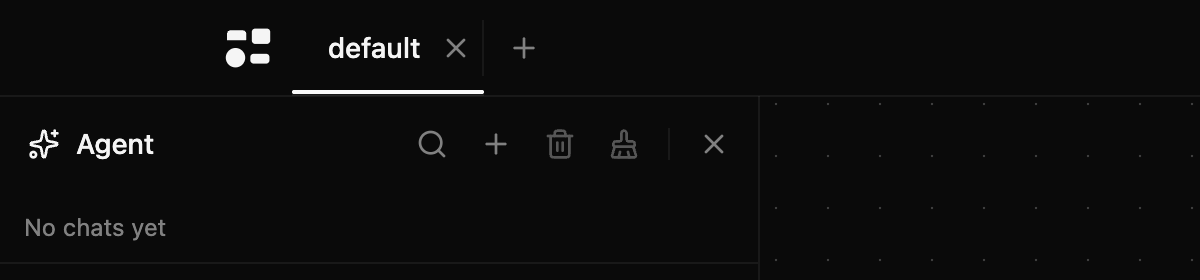
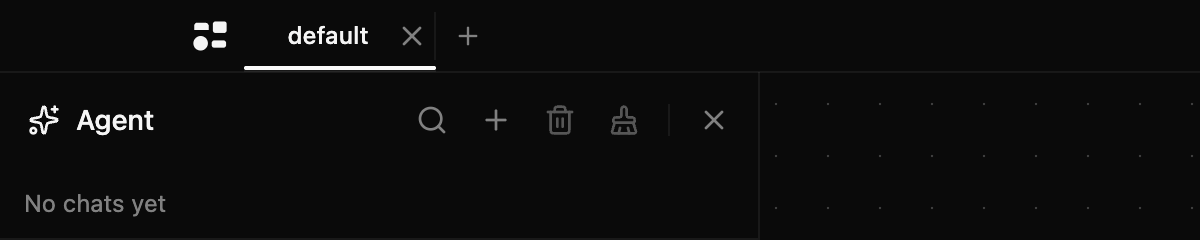
Top bar: 36 px tall, every part scaled from the 48 px reference
The bar and its curves scale by 0.75: 15 px flares and corners, a 24 px Settings circle 9 px past the bar's end and
12 px from the window edge, an 18 px logo one curve into the bar, the kit's sm tabs (24 px, 12 px text, a 16 px close
button) and a 24 px All projects button. The macOS lights' zone is 81 px for lights at x 12. The rail starts at 36,
and the diff panel sits 8 px under the bar and clear of the bottom row.

The shell moves the traffic lights to x 12, y 11 and the Windows caption band to 36 px in the same release.

diff --git a/packages/web/src/components/ui/top-bar.tsx b/packages/web/src/components/ui/top-bar.tsx
@@ -65,25 +65,26 @@ export interface TopBarProps {
   readonly squareStart?: boolean | undefined;
 }
 
-// The measured geometry of the reference (the user's prototype, `component-mac-topbar.html`): a 48 px bar whose two ends
-// each curve out at the top and round off at the bottom with a 20 px radius, Settings 12 px past the bar's end, and the
-// window controls 14 px in from the window edge.
-const BAR_HEIGHT = 48;
-const CURVE = 20;
+// The reference's geometry (the user's prototype, `component-mac-topbar.html`) scaled from its 48 px bar to 36 px (x 0.75):
+// each end curves out at the top and rounds off at the bottom with a 15 px radius, and Settings is a 24 px circle 9 px past
+// the bar's end. Two radii take 30 of the 36 px, leaving a 6 px straight side, the reference's proportion.
+const BAR_HEIGHT = 36;
+const CURVE = 15;
 /**
- * Window edge to the bar on macOS. The shell puts the traffic lights at x 20 (main.js `trafficLightPosition`); the three
- * lights span about 60 px, so they end near x 80 and the bar starts 12 px after them. The start region's spacer and the
+ * Window edge to the bar on macOS. The shell puts the traffic lights at x 12 (main.js `trafficLightPosition`), the same
+ * as the margin above and below them (the OS draws them about 13 px tall, centred on the bar's 18 px midline). The three
+ * lights span about 60 px, so they end near x 72 and the bar starts 9 px after them. The start region's spacer and the
  * bar's left edge both use this one number.
  */
-const LIGHTS_ZONE = 92;
-/** The bar's end to the Settings button (the flare overlaps the button's first 8 px). */
-const SETTINGS_GAP = 12;
+const LIGHTS_ZONE = 81;
+/** The bar's end to the Settings button (the flare overlaps the button's first 6 px). */
+const SETTINGS_GAP = 9;
 /** The Windows caption buttons (144 px) and the 12 px to the bar. */
 const CAPTION_ZONE = 156;
 
 /**
- * The bar's outline as one path, in the bar's own coordinates. Each end is a 20 px concave flare at the top, outside the
- * bar, and a 20 px convex corner at the bottom, inside it. The top stays open against the window edge. The fill closes the
+ * The bar's outline as one path, in the bar's own coordinates. Each end is a concave flare at the top, outside the bar,
+ * and a convex corner at the bottom, inside it, both of radius CURVE. The top stays open against the window edge. The fill closes the
  * top; the stroke does not, so the border is the outline and nothing more.
  */
 const barEnd = (width: number) => `H${width - CURVE}A${CURVE} ${CURVE} 0 0 0 ${width} ${BAR_HEIGHT - CURVE}V${CURVE}A${CURVE} ${CURVE} 0 0 1 ${width + CURVE} 0`;
@@ -96,7 +97,7 @@ const barStroke = (width: number, squareStart: boolean) =>
   squareStart ? `M0 ${BAR_HEIGHT}${barEnd(width)}` : barFill(width, false).replace(/Z$/, "");
 
 const WindowDots = () => (
-  <span className="flex h-full items-center gap-2 ps-3.5">
+  <span className="flex h-full items-center gap-2 ps-3">
     <span className="size-3 rounded-full bg-muted-foreground/40" />
     <span className="size-3 rounded-full bg-muted-foreground/40" />
     <span className="size-3 rounded-full bg-muted-foreground/40" />
@@ -104,7 +105,7 @@ const WindowDots = () => (
 );
 
 /**
- * The project tab bar (spec 17), drawn to the reference: a 48 px bar with a 20 px flare and corner at each end, its border on
+ * The project tab bar (spec 17), drawn to the reference: a 36 px bar with a 15 px flare and corner at each end, its border on
  * the outline, the window controls and Settings beside it. The tabs are the kit's underline Tabs, the buttons the kit's
  * buttons; a right-click on a tab opens Close, Close all tabs, Rename and Delete.
  */
@@ -211,38 +212,39 @@ export const TopBar = ({
 
   const positioned = layout === "flow" ? "relative " : "";
   const settingsNode = (
-    <div data-slot="top-bar-settings" className="flex size-8 shrink-0 items-center justify-center overflow-hidden rounded-full">
+    <div data-slot="top-bar-settings" className="flex size-6 shrink-0 items-center justify-center overflow-hidden rounded-full">
       {settings}
     </div>
   );
   const region = (base: string, custom: TopBarRegion | undefined): TopBarRegion => ({ ...custom, className: cn(base, custom?.className) });
   const controlsSpace = (width: string, style?: CSSProperties) =>
     controls === "none" ? null : (
-      <div data-slot="top-bar-controls" aria-hidden className={cn("h-12 shrink-0", width)} style={style}>
+      <div data-slot="top-bar-controls" aria-hidden className={cn("h-9 shrink-0", width)} style={style}>
         {controls === "stand-ins" && <WindowDots />}
       </div>
     );
 
   return (
-    <div data-slot="top-bar" data-platform={platform} ref={rootRef} {...region("relative box-border flex h-12 w-full min-w-0 items-stretch", regions.frame)}>
+    <div data-slot="top-bar" data-platform={platform} ref={rootRef} {...region("relative box-border flex h-9 w-full min-w-0 items-stretch", regions.frame)}>
       <div data-slot="top-bar-body" ref={bodyRef} aria-hidden className="absolute inset-y-0 left-0 right-0">
         <svg className="pointer-events-none absolute inset-0 overflow-visible" width={bodyWidth} height={BAR_HEIGHT}>
           <path d={barFill(bodyWidth, squareStart)} className="fill-background stroke-none" />
           <path d={barStroke(bodyWidth, squareStart)} className="fill-none stroke-border" />
         </svg>
       </div>
-      <div data-slot="top-bar-start" {...region(`${positioned}flex h-12 shrink-0 items-center`, regions.start)}>
+      <div data-slot="top-bar-start" {...region(`${positioned}flex h-9 shrink-0 items-center`, regions.start)}>
         {!windows && controlsSpace("", { width: LIGHTS_ZONE })}
-        {windows && <span className="flex shrink-0 items-center ps-3.5">{settingsNode}</span>}
-        <span className={cn("flex shrink-0 items-center", windows ? "ms-3 ps-5 pe-2.5" : "ps-5 pe-2.5")}>{logo}</span>
+        {windows && <span className="flex shrink-0 items-center ps-3">{settingsNode}</span>}
+        {/* The logo sits one curve's width into the bar, clear of the bottom corner. */}
+        <span className={cn("flex shrink-0 items-center ps-[15px] pe-2", windows && "ms-[9px]")}>{logo}</span>
       </div>
-      <div data-slot="top-bar-tabs" {...region(`${positioned}flex h-12 min-w-0 shrink items-stretch`, regions.tabs)}>
-        <Tabs className="h-12 w-fit min-w-0 shrink" value={active ?? null} onValueChange={(name) => onActivate(String(name))}>
+      <div data-slot="top-bar-tabs" {...region(`${positioned}flex h-9 min-w-0 shrink items-stretch`, regions.tabs)}>
+        <Tabs className="h-9 w-fit min-w-0 shrink" value={active ?? null} onValueChange={(name) => onActivate(String(name))}>
           <TabsList
             ref={scroller}
             aria-label="Open projects"
             variant="underline"
-            size="compact"
+            size="sm"
             overflow="truncate"
             className="h-full min-w-0 max-w-full"
             onClick={onListClick}
@@ -272,13 +274,13 @@ export const TopBar = ({
             ))}
           </TabsList>
         </Tabs>
-        <div data-slot="top-bar-new" className="flex h-12 shrink-0 items-center ps-1">
+        <div data-slot="top-bar-new" className="flex h-9 shrink-0 items-center ps-1">
           {newProject}
         </div>
       </div>
-      <div data-slot="top-bar-drag" className={`${positioned}h-12 min-w-8 flex-1`} />
-      <div data-slot="top-bar-end" {...region(`${positioned}flex h-12 shrink-0 items-center`, regions.end)}>
-        {!windows && <span className="flex h-12 items-center pe-3.5">{settingsNode}</span>}
+      <div data-slot="top-bar-drag" className={`${positioned}h-9 min-w-8 flex-1`} />
+      <div data-slot="top-bar-end" {...region(`${positioned}flex h-9 shrink-0 items-center`, regions.end)}>
+        {!windows && <span className="flex h-9 items-center pe-3">{settingsNode}</span>}
         {windows && controlsSpace("w-39")}
       </div>
       <Menu open={menu !== undefined} onOpenChange={(open) => !open && setMenu(undefined)}>

diff --git a/packages/web/src/agent/rail/AgentRail.tsx b/packages/web/src/agent/rail/AgentRail.tsx
@@ -53,12 +53,12 @@ const keyIsTaken = (target: EventTarget | null): boolean => {
 /*
  * 380 px, docked left over the canvas where the editor's chat column sits, on solid
  * --background with the kit's border: on glass it crossed spec 02's pan budget. It runs from
- * the top bar's bottom border (48 px, spec 17) to the window's bottom, so the bar's border and
+ * the top bar's bottom border (36 px, spec 17) to the window's bottom, so the bar's border and
  * the rail's right border meet with no gap; theme.css moves the zoom controls beside it. The slide is a CSS transition on
  * `transform` (not Tailwind's `translate`), so reopening mid-exit reverses from where it is.
  */
 const RAIL_CLASS =
-  "pointer-events-auto absolute top-12 left-0 bottom-0 z-[600] box-border flex w-[380px] flex-col border-r bg-background font-sans text-foreground [transform:none] opacity-100 [transition:transform_260ms_var(--ease-drawer),opacity_200ms_ease-out] starting:data-[state=open]:[transform:translateX(-100%)] starting:data-[state=open]:opacity-0 data-[state=closed]:pointer-events-none data-[state=closed]:[transform:translateX(-100%)] data-[state=closed]:opacity-0 data-[state=closed]:[transition:transform_200ms_var(--ease-drawer),opacity_160ms_ease-out] motion-reduce:[transition:opacity_160ms_ease-out] motion-reduce:data-[state=closed]:[transform:none] motion-reduce:data-[state=closed]:[transition:opacity_160ms_ease-out]";
+  "pointer-events-auto absolute top-9 left-0 bottom-0 z-[600] box-border flex w-[380px] flex-col border-r bg-background font-sans text-foreground [transform:none] opacity-100 [transition:transform_260ms_var(--ease-drawer),opacity_200ms_ease-out] starting:data-[state=open]:[transform:translateX(-100%)] starting:data-[state=open]:opacity-0 data-[state=closed]:pointer-events-none data-[state=closed]:[transform:translateX(-100%)] data-[state=closed]:opacity-0 data-[state=closed]:[transition:transform_200ms_var(--ease-drawer),opacity_160ms_ease-out] motion-reduce:[transition:opacity_160ms_ease-out] motion-reduce:data-[state=closed]:[transform:none] motion-reduce:data-[state=closed]:[transition:opacity_160ms_ease-out]";
 
 /** The editor's left column, or the Sheet: the same rail in place, with no surface or motion of its own. */
 const EMBEDDED_CLASS = "relative box-border flex size-full min-h-0 flex-col font-sans text-foreground";

diff --git a/packages/web/test/chromeCorners.spec.ts b/packages/web/test/chromeCorners.spec.ts
@@ -18,22 +18,23 @@ test("the top-left card holds the logo; Settings sits at the end opposite the wi
   await expect(page.getByRole("button", { name: "Help" })).toHaveCount(0);
 });
 
-test("the bar's start sits at the window edge, 48 tall; the lights' zone is 92 px, the logo 20 px into the bar", async ({ page, engine }) => {
+test("the bar's start sits at the window edge, 36 tall; the lights' zone is 81 px, the logo 15 px into the bar", async ({ page, engine }) => {
   await openCanvas(page, engine);
   const card = page.locator(".unframed-chrome-left");
   const box = (await card.boundingBox())!;
-  // The bar is 48 px tall and its start region is the lights' zone (92 px) before the logo's 20 px padding.
-  expect([box.x, box.y, box.height]).toEqual([0, 0, 48]);
+  // The bar is 36 px tall and its start region is the lights' zone (81 px) before the logo's 15 px padding.
+  expect([box.x, box.y, box.height]).toEqual([0, 0, 36]);
   const logo = (await card.getByRole("img", { name: "Unframed" }).boundingBox())!;
-  expect([logo.width, logo.height]).toEqual([24, 24]);
-  expect(logo.x).toBe(92 + 20);
+  expect([logo.width, logo.height]).toEqual([18, 18]);
+  expect(logo.x).toBe(81 + 15);
   const strip = (await page.getByTestId("tab-strip").boundingBox())!;
-  expect(strip.height).toBe(48);
-  expect(strip.y + strip.height / 2).toBe(24);
+  expect(strip.height).toBe(36);
+  expect(strip.y + strip.height / 2).toBe(18);
   const settings = (await page.getByRole("button", { name: /^(Settings|Add your API key)$/ }).boundingBox())!;
-  // The reference's Settings is a 32 px circle, 12 px past the bar's end and 14 px from the window edge.
-  expect([settings.width, settings.height]).toEqual([32, 32]);
-  expect(settings.y + settings.height / 2).toBe(24);
+  // Settings is a 24 px circle, 9 px past the bar's end and 12 px from the window edge.
+  expect([settings.width, settings.height]).toEqual([24, 24]);
+  expect(settings.y + settings.height / 2).toBe(18);
+  expect(page.viewportSize()!.width - (settings.x + settings.width)).toBe(12);
   const right = await page.locator(".unframed-chrome-right").evaluate((element) => ({ top: getComputedStyle(element).top, right: getComputedStyle(element).right }));
   expect(right).toEqual({ top: "0px", right: "0px" });
 });

diff --git a/packages/web/src/agent/diff/DiffPanel.tsx b/packages/web/src/agent/diff/DiffPanel.tsx
@@ -100,10 +100,11 @@ export const DiffPanel = ({ client, chat, diff }: { readonly client: ChatClient;
   const wrapLabel = wrap ? "Disable line wrapping" : "Enable line wrapping";
   const whitespaceLabel = ignoreWhitespace ? "Show whitespace changes" : "Hide whitespace changes";
   return (
-    // t3code's diff panel shell, beside the rail on its left and as tall as it.
+    // t3code's diff panel shell, beside the rail on its canvas side: 8 px under the top bar, which the rail starts at, and
+    // clear of the canvas's bottom row, which the full-height rail no longer stops above.
     <section
       ref={root}
-      className="absolute top-14 left-[calc(100%+8px)] bottom-0 flex w-[min(760px,calc(100vw-540px))] min-w-0 flex-col overflow-hidden rounded-xl border bg-background text-sm shadow-lg/5 outline-none"
+      className="absolute top-2 left-[calc(100%+8px)] bottom-[52px] flex w-[min(760px,calc(100vw-540px))] min-w-0 flex-col overflow-hidden rounded-xl border bg-background text-sm shadow-lg/5 outline-none"
       role="dialog"
       aria-label="Changes"
       tabIndex={-1}

diff --git a/packages/web/src/settings/SettingsHost.tsx b/packages/web/src/settings/SettingsHost.tsx
@@ -18,7 +18,7 @@ const SettingsButton = ({ ui }: { readonly ui: SettingsUi }) => {
     const hint = settings?.keyHint ?? "";
     return (
       <Tip label={`Settings: ${hint === "" ? "" : `key …${hint}, `}default models, output folder`}>
-        <Button variant="ghost" size="icon" aria-label="Settings" onClick={() => ui.open()}>
+        <Button variant="ghost" size="icon-xs" aria-label="Settings" onClick={() => ui.open()}>
           <Gear aria-hidden />
         </Button>
       </Tip>
@@ -26,7 +26,7 @@ const SettingsButton = ({ ui }: { readonly ui: SettingsUi }) => {
   }
   return (
     <Tip label="No OpenRouter key yet. Click to add one">
-      <Button size="icon" aria-label="Add your API key" data-keyless="true" onClick={() => ui.open()}>
+      <Button size="icon-xs" aria-label="Add your API key" data-keyless="true" onClick={() => ui.open()}>
         <KeyRound aria-hidden />
       </Button>
     </Tip>

diff --git a/packages/web/src/components/ui/tabs.tsx b/packages/web/src/components/ui/tabs.tsx
@@ -159,7 +159,7 @@ function TabsTab({ className, children, status, closable = false, onClose, close
       className={cn(
         tabsTabVariants({ overflow, size, variant }),
         "peer",
-        closable && "pe-7",
+        closable && (size === "sm" ? "pe-6" : "pe-7"),
         divider && "after:pointer-events-none after:absolute after:inset-y-0 after:end-0 after:w-px after:bg-border",
         className,
       )}
@@ -184,7 +184,7 @@ function TabsTab({ className, children, status, closable = false, onClose, close
       {tab}
       <Button
         variant="ghost-muted"
-        size="icon-micro"
+        size={size === "sm" ? "icon-tiny" : "icon-micro"}
         className="absolute end-1 top-1/2 -translate-y-1/2 opacity-0 peer-not-data-active:pointer-events-none peer-data-active:opacity-100"
         aria-label={closeLabel}
         data-close=""

diff --git a/packages/web/test/mentionMenu.spec.ts b/packages/web/test/mentionMenu.spec.ts
@@ -123,7 +123,7 @@ test("with the prompt at the top edge, the mention list is pushed under the tab 
   await page.keyboard.type("A photo of @");
   await expect(menu(page)).toBeVisible();
   const prompt = page.locator(".tl-shape[data-shape-type='text']").filter({ hasText: "A photo of" });
-  // Pan the canvas, from an empty point, until the prompt's top is under the bar's 48 px.
+  // Pan the canvas, from an empty point, until the prompt's top is under the bar's 36 px.
   const empty = await emptyCanvasPoint(page);
   await page.mouse.move(empty.x, empty.y);
   for (let step = 0; step < 60 && (await prompt.boundingBox())!.y > 0; step++) await page.mouse.wheel(0, 40);

diff --git a/packages/web/test/tabStripRail.spec.ts b/packages/web/test/tabStripRail.spec.ts
@@ -30,7 +30,7 @@ test("the docked rail meets the bar's bottom border: no part of it shows in the 
   expect(body.x).toBe(0);
 
   // The rail's right border and the bar's left end, inside the bar: only the bar paints there.
-  for (const point of [{ x: box.x + box.width - 1, y: 24 }, { x: 4, y: 46 }]) {
+  for (const point of [{ x: box.x + box.width - 1, y: body.height / 2 }, { x: 4, y: body.height - 2 }]) {
     const inRail = await panel.evaluate((rail, { x, y }) => document.elementsFromPoint(x, y).some((element) => rail.contains(element)), point);
     expect(inRail).toBe(false);
   }

diff --git a/packages/web/test/agentRail.spec.ts b/packages/web/test/agentRail.spec.ts
@@ -50,7 +50,7 @@ test("the Agent button slides the rail in from the left under the top bar, full 
   const box = (await panel.boundingBox())!;
   expect(box.x).toBeCloseTo(0, 0);
   // It runs from the top bar's bottom border to the window's bottom.
-  expect(box.y).toBe(48);
+  expect(box.y).toBe(36);
   expect(box.y + box.height).toBe(page.viewportSize()!.height);
   expect(await computed(panel, "border-bottom-width", "border-bottom-right-radius")).toEqual({ "border-bottom-width": "0px", "border-bottom-right-radius": "0px" });
 

diff --git a/packages/web/src/chrome/ProjectMenu.tsx b/packages/web/src/chrome/ProjectMenu.tsx
@@ -281,7 +281,7 @@ export const ProjectMenu = () => {
           if (open) void refresh();
         }}
       >
-        <MenuTrigger aria-label="All projects" render={<Button variant="ghost" size="icon" />}>
+        <MenuTrigger aria-label="All projects" render={<Button variant="ghost" size="icon-xs" />}>
           <Plus aria-hidden />
         </MenuTrigger>
         <MenuPopup sideOffset={8} align="end" className="min-w-[220px]">

diff --git a/packages/web/src/chrome/Corners.tsx b/packages/web/src/chrome/Corners.tsx
@@ -15,7 +15,7 @@ const LogoMark = () => (
   <span
     role="img"
     aria-label="Unframed"
-    className="block size-6 shrink-0 bg-foreground"
+    className="block size-4.5 shrink-0 bg-foreground"
     style={{ mask: `url("${logoUrl}") center / contain no-repeat`, WebkitMask: `url("${logoUrl}") center / contain no-repeat` }}
   />
 );

diff --git a/docs/specs/17-project-tabs.md b/docs/specs/17-project-tabs.md
@@ -61,7 +61,7 @@ Spec 08's chat tabs keep their name. Where this spec says "project tab", it mean
 - **Top-left card** (`.unframed-chrome-left`, spec 02): the logo. On macOS the logo alone sits after the traffic lights, which keep the 92 px inset (the shell's repair, spec 01). On Windows the card holds Settings first, then the logo, because Settings is at the far left there. The project menu leaves the card on both platforms. While the rail is docked the card stays in the bar, above the rail (spec 08).
 - **Settings**: a 44 px grey holder with one Settings button in the reference shape below. Its place follows the window controls. On macOS it is the top-right card (`.unframed-chrome-right`, spec 01), at the far right, 8 px from the window's edge. On Windows it is the first item in the top-left card, at the far left, before the logo. The web chooses the side with the platform helper (`canvas/platform.ts`), so no shell CSS moves Settings; the shell's repair of `.unframed-chrome-right` (below the caption buttons on Windows) stays and leaves that card empty there. Settings keeps its dialog, its tooltip and its label "Settings". Its icon is the kit's settings (gear) icon, not the reference's chevron, because the reference is a shape, not a meaning. It stays reachable while the rail is docked, because the rail starts under the bar.
 - **Tab strip** (`.unframed-tabs`, new): one opaque strip in the same row as the top bar's cards, 44 px tall, centred on the same line. Its left edge is 8 px right of the left card, with the rail open or closed. Its right edge is 8 px left of the top-right card on macOS. On Windows the shell moves the caption buttons into the top-right corner, so the strip's right edge there is set by the shell's caption inset (see "The hosting contract with the desktop shell").
-- **Top bar.** A 48 px bar, drawn by `components/ui/top-bar.tsx` to the reference, the user's prototype `component-mac-topbar.html` (its geometry is the source of truth): each end of the bar is a 20 px concave flare at the top, outside the bar, and a 20 px convex corner at the bottom, with the border on that outline and the top left open against the window edge (a kit component; its catalogue entry is `top-bar`, with macOS and Windows previews). Left to right on macOS: the window controls' inset (92 px; the OS draws the controls), a full-height divider after the logo, the tabs, each with a full-height divider after it, the plus right after the last tab, empty drag space, and Settings as a 32 px circle 12 px past the bar's end, which the flare overlaps by 8 px. The bar's outline is one SVG path, filled with the bar's background and stroked with its border. The window edge is 14 px from the lights; the lights are 12 px with 8 px between, and the bar starts 12 px after them, so the lights' zone is 78 px. The logo sits 20 px into the bar. On Windows the order mirrors, with the flare mirrored too: Settings first at the far left, then the logo and the tabs, with the caption buttons' inset at the far right. The bar's regions keep spec 01's hooks, each still one element: the start region is `.unframed-chrome-left` (the logo, and Settings first on Windows), the tabs region is `.unframed-tabs` (the tabs and the plus), and the end region is `.unframed-chrome-right` (Settings on macOS, empty on Windows). The bar's frame behind them is `absolute`, not fixed, so the regions keep their layers over the canvas. The bar sits flush with the window's top edge, with no offset, on macOS and Windows: its regions and the tab strip all start at the top of the window, and the macOS traffic lights are centred on the bar's 24 px midline (the shell sets their position).
+- **Top bar.** A 36 px bar, drawn by `components/ui/top-bar.tsx` to the reference, the user's prototype `component-mac-topbar.html`, scaled from its 48 px to 36 px (x 0.75; the reference's proportions are the source of truth): each end of the bar is a 15 px concave flare at the top, outside the bar, and a 15 px convex corner at the bottom, leaving a 6 px straight side, with the border on that outline and the top left open against the window edge (a kit component; its catalogue entry is `top-bar`, with macOS and Windows previews). Left to right on macOS: the window controls' inset (81 px; the OS draws the controls), the 18 px logo, the tabs (the kit's `sm` size: 24 px, 12 px text, a 16 px close button), each with a full-height divider after it, the 24 px All projects button right after the last tab, empty drag space, and Settings as a 24 px circle 9 px past the bar's end, which the flare overlaps by 6 px, 12 px from the window edge. The bar's outline is one SVG path, filled with the bar's background and stroked with its border. The lights are about 13 px tall and span about 60 px. The shell puts them 12 px from the window edge (`trafficLightPosition` x 12), the same as the margin above and below them, and the bar starts 9 px after them, so the lights' zone is 81 px. The logo sits 15 px (one curve) into the bar. On Windows the order mirrors, with the flare mirrored too: Settings first at the far left, then the logo and the tabs, with the caption buttons' inset at the far right. The bar's regions keep spec 01's hooks, each still one element: the start region is `.unframed-chrome-left` (the logo, and Settings first on Windows), the tabs region is `.unframed-tabs` (the tabs and the plus), and the end region is `.unframed-chrome-right` (Settings on macOS, empty on Windows). The bar's frame behind them is `absolute`, not fixed, so the regions keep their layers over the canvas. The bar sits flush with the window's top edge, with no offset, on macOS and Windows: its regions and the tab strip all start at the top of the window, and the macOS traffic lights are centred on the bar's 18 px midline: the shell sets `trafficLightPosition` y 11, because y lands about 6.75 px above the lights' centre (measured in the shell). On Windows the shell's caption band (`titleBarOverlay` height) is 36 px, the bar's height.
 - **Look (interpreting the user's reference).** The user's words: the Settings button "could appear somewhat like this reference button next to a tab", with the reference showing a grey strip, a white squircle-like button holding a chevron, and a white rounded tab beside it, all inset in the strip. This spec reads "they" as covering the tabs as well as the button, so the tabs match the reference too. The reading is recorded here so the user can correct it. As built after the user's review: the strip is the kit's underline Tabs (spec 13) on the page background, with thin dividers between tabs, as the reference shows. The first build used 36 px squircle tabs with fixed widths; the user rejected that look. The Settings holder keeps its muted shape. The strip drops glass for two reasons: the reference is opaque, and glass over the canvas is what spec 08 measured as crossing the pan budget.
 - **Tabs**: the kit's underline Tabs (spec 13), with a thin divider between tabs. Each tab shows the project name cut with an ellipsis and a status slot. The close button shows on the active tab only. The name's full text is the tooltip, which also says the status in words. The active tab has the underline and the foreground colour, not colour alone. The strip is a tab list (`role="tablist"`, each tab `role="tab"` with `aria-selected`), and the close button has the label "Close <project>".
 - **Width.** A tab is as wide as its name, with no fixed width, from the kit's minimum of 80 px to its maximum of 160 px. Tabs share the strip's room and truncate only when it runs out.
